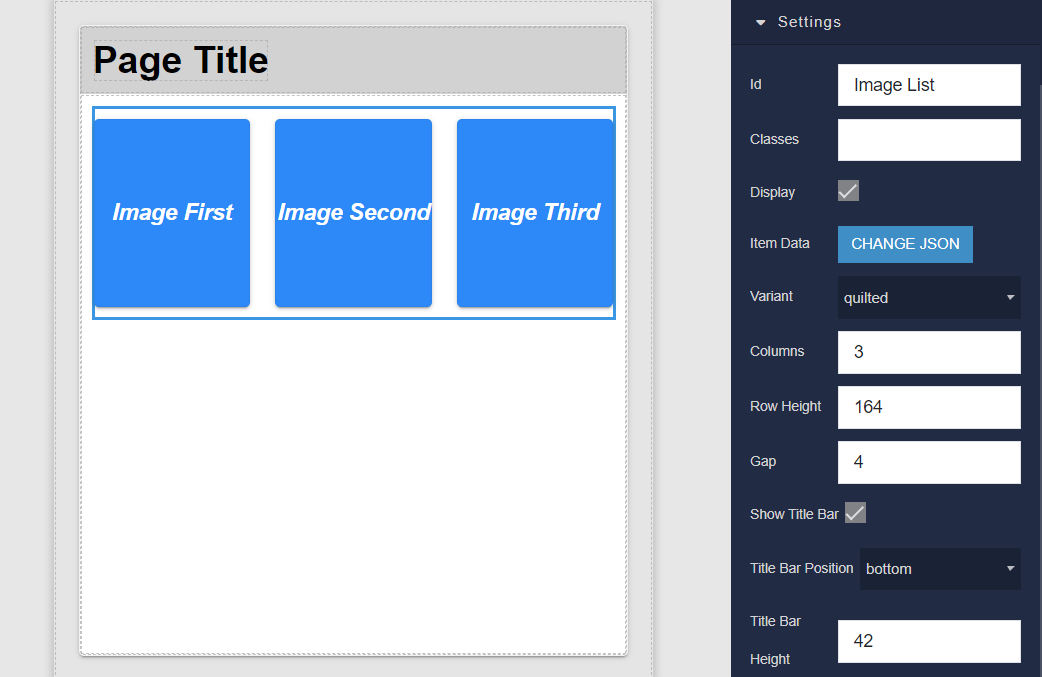
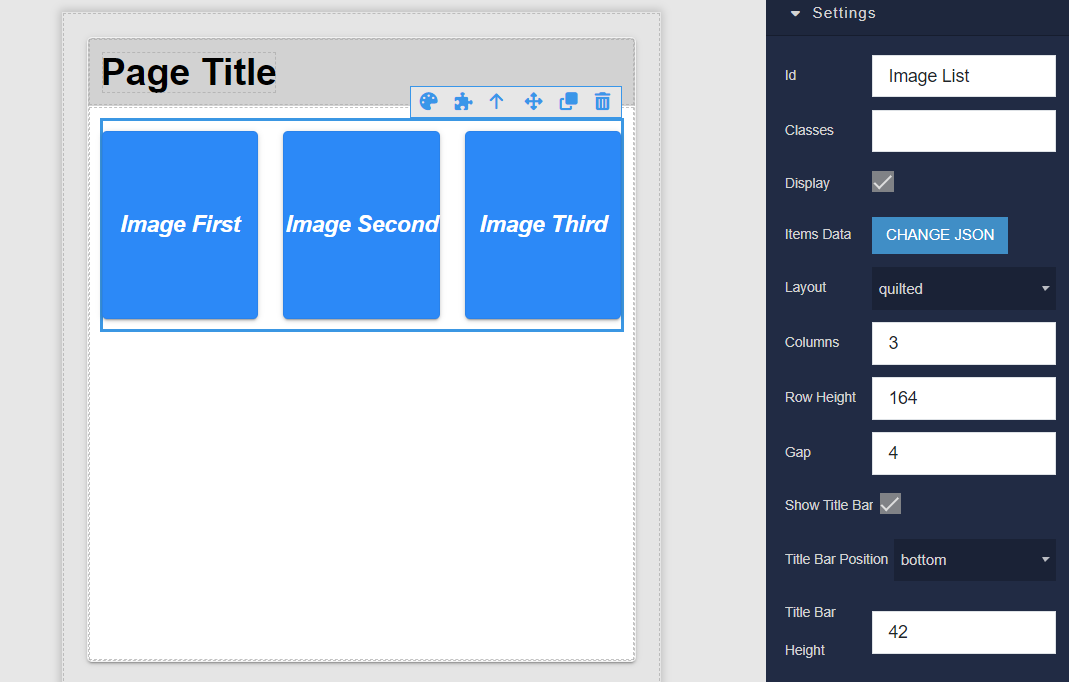
update component

Changed region(s): [[0.6756, 0.0, 1.0, 1.0], [0.0614, 0.062, 0.6142, 0.9926]]

diff --git a/components/bl-image-list/src/index.js b/components/bl-image-list/src/index.js
@@ -1,4 +1,4 @@
-import { useEffect, useMemo, useState } from 'react';
+import { useMemo } from 'react';
 
 import { ImageList, ImageListItem, ImageListItemBar } from './lib/mui';
 
@@ -9,13 +9,9 @@ const TYPE_QUILTED = 'quilted';
 const IMAGE_HEIGHT_REDUCTION_FACTOR = 0.7;
 
 export default function ImageListComponent({ component, eventHandlers, elRef }) {
-  const { style, classList, display, itemData, listVariant, cols, rowHeight, gap } = component;
-
-  const [items, setItems] = useState([]);
-
-  useEffect(() => {
-    setItems(itemData);
-  }, [itemData]);
+  const {
+    style, classList, display, itemsData, layout, cols, rowHeight, gap, showTitleBar, titleBarPosition, titleBarHeight,
+  } = component;
 
   if (!display) {
     return null;
@@ -23,23 +19,31 @@ export default function ImageListComponent({ component, eventHandlers, elRef }) 
 
   return (
     <div className={ cn('bl-customComponent-image-list', classList) } ref={ elRef } style={ style }>
-      <ImageList cols={ cols } gap={ gap } rowHeight={ rowHeight } variant={ listVariant }>
+      <ImageList cols={ cols } gap={ gap } rowHeight={ rowHeight } variant={ layout }>
 
-        { items.map(item => (
-          <Item key={ item.img } item={ item } component={ component } eventHandlers={ eventHandlers }/>
+        { itemsData?.map((item, index) => (
+          <Item
+            key={ index }
+            item={ item }
+            layout={ layout }
+            rowHeight={ rowHeight }
+            showTitleBar={ showTitleBar }
+            titleBarPosition={ titleBarPosition }
+            titleBarHeight={ titleBarHeight }
+            eventHandlers={ eventHandlers }
+          />
         )) }
       </ImageList>
     </div>
   );
 }
 
-function Item({ item, component, eventHandlers }) {
+function Item({ item, layout, rowHeight, showTitleBar, titleBarPosition, titleBarHeight, eventHandlers }) {
   const { img, title, rows, cols } = item;
-  const { listVariant, rowHeight, showTitleBar, titleBarPosition, titleBarHeight } = component;
   const { onItemClick, onTitleClick, onImageClick } = eventHandlers;
 
   const imageStyle = useCalculatedImageStyle(showTitleBar, rowHeight, titleBarHeight, titleBarPosition);
-  const isQuilted = useMemo(() => listVariant === TYPE_QUILTED, [listVariant]);
+  const isQuilted = useMemo(() => layout === TYPE_QUILTED, [layout]);
 
   return (
     <ImageListItem

diff --git a/components/bl-image-list/README.md b/components/bl-image-list/README.md
@@ -8,16 +8,16 @@ Image List is the component that can be used in Backendless [UI-Builder](https:/
 
 ## Properties
 
-| Property                                   | Type                                                      | Default value | Logic           | Data Binding | UI Setting | Description                                                                                                                                                                            |
-|--------------------------------------------|-----------------------------------------------------------|---------------|-----------------|--------------|------------|----------------------------------------------------------------------------------------------------------------------------------------------------------------------------------------|
-| Item Data <br> `itemData`                  | *JSON*                                                    | `[]`          | Item Data Logic | YES          | YES        | Specifies a JSON array containing data of the image list items.  Signature of items list: `[ <Item> ]` Signature of item: `{ img: String, title: String, rows: Number, cols: Number }` |
-| Variant <br> `listVariant`                 | *Select* <br> [`standard`, `quilted`, `woven`, `masonry`] | `standard`    |                 | NO           | YES        | Controls the variant of image list to use.                                                                                                                                             |
-| Columns <br> `cols`                        | *Number*                                                  | 3             |                 | NO           | YES        | Controls the number of columns of the image list.                                                                                                                                      |
-| Row Height <br> `rowHeight`                | *Number*                                                  | 164           |                 | NO           | YES        | Controls the height of one row of the image list in px. Ignored with masonry variant.                                                                                                  |
-| Gap <br> `gap`                             | *Number*                                                  | 4             |                 | NO           | YES        | Controls the gap between list items in px.                                                                                                                                             |
-| Show Title Bar <br> `showTitleBar`         | *Checkbox*                                                | `false`       |                 | NO           | YES        | Controls whether the title bar is shown or hidden by default.                                                                                                                          |
-| Title Bar Position <br> `titleBarPosition` | *Select* <br> [`below`, `bottom`, `top`]                  | `bottom`      |                 | NO           | YES        | Controls the position of the title bar.                                                                                                                                                |
-| Title Bar Height <br> `titleBarHeight`     | *Number*                                                  | 42            |                 | NO           | YES        | Controls the height of the title bar in px.                                                                                                                                            |
+| Property                                   | Type                                                      | Default value | Logic            | Data Binding | UI Setting | Description                                                                                                                                                                            |
+|--------------------------------------------|-----------------------------------------------------------|---------------|------------------|--------------|------------|----------------------------------------------------------------------------------------------------------------------------------------------------------------------------------------|
+| Items Data <br> `itemsData`                | *JSON*                                                    | `[]`          | Items Data Logic | YES          | YES        | Specifies a JSON array containing data of the image list items.  Signature of items list: `[ <Item> ]` Signature of item: `{ img: String, title: String, rows: Number, cols: Number }` |
+| Layout <br> `layout`                       | *Select* <br> [`standard`, `quilted`, `woven`, `masonry`] | `standard`    |                  | NO           | YES        | Controls the layout of the image list to be used.                                                                                                                                      |
+| Columns <br> `cols`                        | *Number*                                                  | 3             |                  | NO           | YES        | Controls the number of columns of the image list.                                                                                                                                      |
+| Row Height <br> `rowHeight`                | *Number*                                                  | 164           |                  | NO           | YES        | Controls the height of one row of the image list in px. Ignored with masonry variant.                                                                                                  |
+| Gap <br> `gap`                             | *Number*                                                  | 4             |                  | NO           | YES        | Controls the gap between list items in px.                                                                                                                                             |
+| Show Title Bar <br> `showTitleBar`         | *Checkbox*                                                | `false`       |                  | NO           | YES        | Controls whether the title bar is shown or hidden by default.                                                                                                                          |
+| Title Bar Position <br> `titleBarPosition` | *Select* <br> [`below`, `bottom`, `top`]                  | `bottom`      |                  | NO           | YES        | Controls the position of the title bar.                                                                                                                                                |
+| Title Bar Height <br> `titleBarHeight`     | *Number*                                                  | 42            |                  | NO           | YES        | Controls the height of the title bar in px.                                                                                                                                            |
 
 ## Events
 
@@ -57,7 +57,7 @@ Image List is the component that can be used in Backendless [UI-Builder](https:/
 
 Below is an example of using the Image List component.
 
-For example, consider the quilted variant. Quilted image lists emphasize certain items over others in a collection. They create hierarchy using varied container sizes and ratios.
+For example, consider the quilted layout. Quilted image lists emphasize certain items over others in a collection. They create hierarchy using varied container sizes and ratios.
 
 Let's add a component to the page and select the necessary settings on the right.
 
